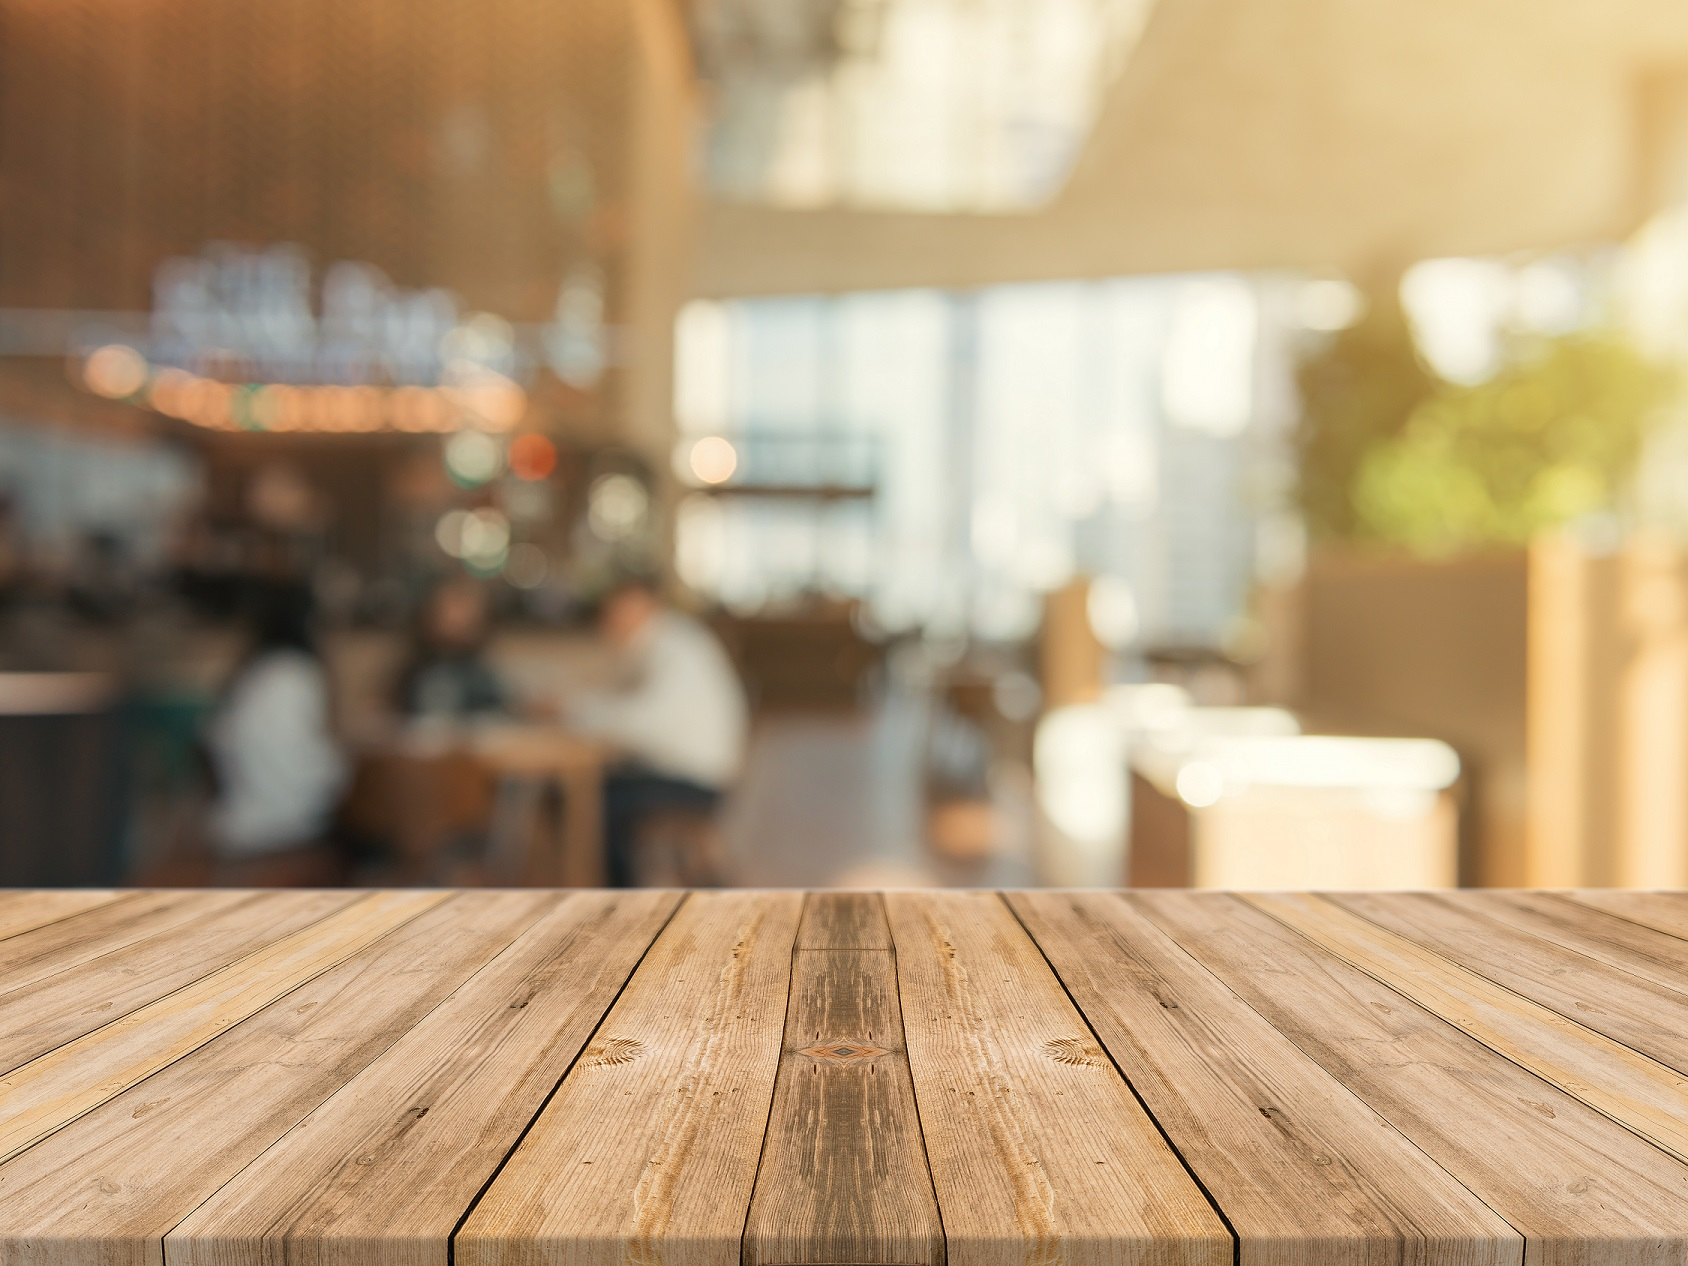
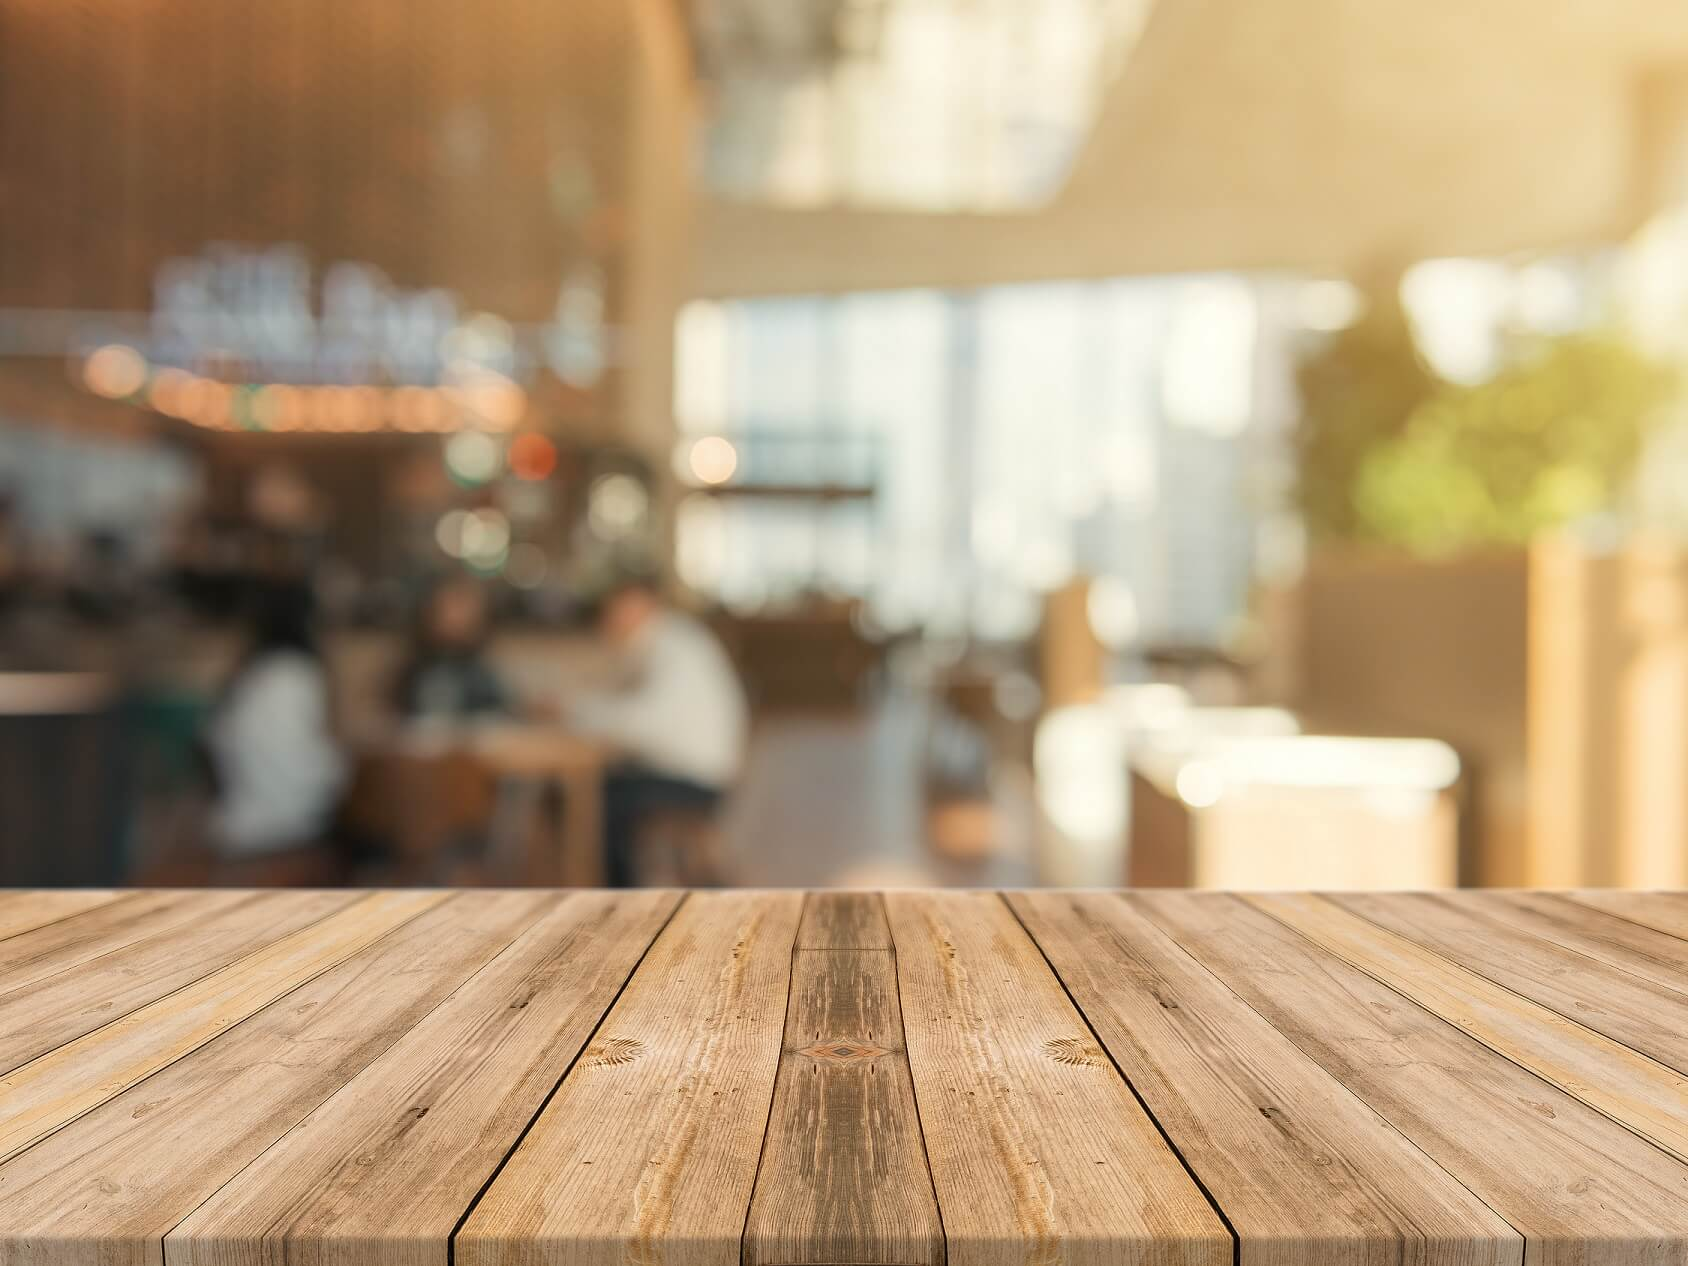
compress bg file, add manifest.json

diff --git a/client/index.html b/client/index.html
@@ -12,6 +12,8 @@
   <meta property="og:description" content="Bar Bonanza Łeba, dania obiadowe, pizze, sałatki, makarony. Jadamy jak u mamy!">
   <meta property="og:url" content="https://pyszne.barbonanza.pl/">
 
+  <link rel="manifest" href="/static/manifest.json">
+
   <link rel="apple-touch-icon" sizes="57x57" href="/static/favicons/apple-icon-57x57.png">
   <link rel="apple-touch-icon" sizes="60x60" href="/static/favicons/apple-icon-60x60.png">
   <link rel="apple-touch-icon" sizes="72x72" href="/static/favicons/apple-icon-72x72.png">
